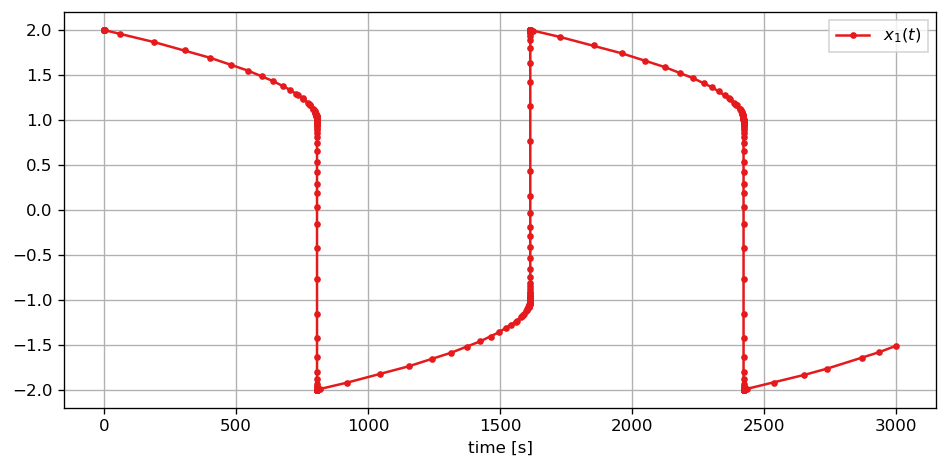
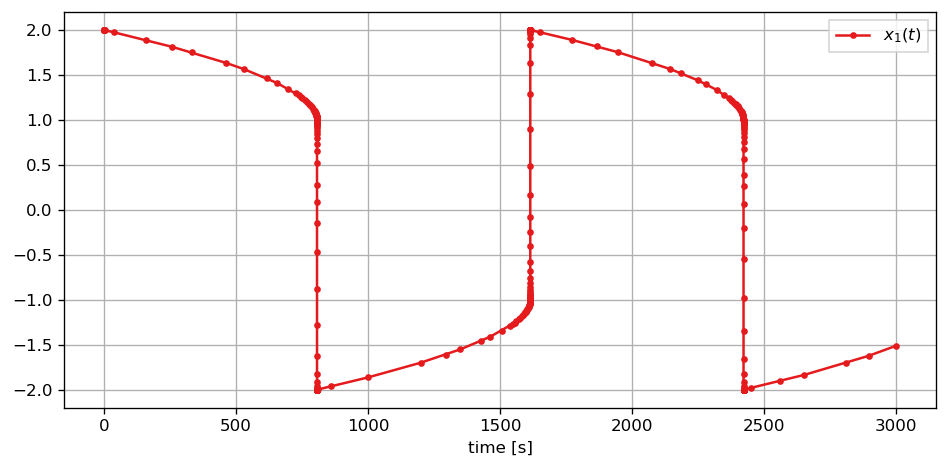
updated readme

diff --git a/README.md b/README.md
@@ -1,23 +1,22 @@
 # PathSim: A Time-Domain System Simulation Framework
 
-
 ## Overview
 
 PathSim is a flexible block-based time-domain system simulation framework in Python with automatic differentiation capabilities and an event handling mechanism. It provides a variety of classes that enable modeling and simulating complex interconnected dynamical systems similar to Matlab Simulink but in Python!
 
 Key features of PathSim include:
 
-- Natural handling of algebraic loops
 - Hot-swappable blocks and solvers during simulation
+- Natural handling of algebraic loops
 - Blocks are inherently MIMO (Multiple Input, Multiple Output) capable
-- Blocks are "physicalized" and manage their own state, i.e. reading from the scope is just scope.read()
-- Scales linearly with the number of blocks and connections
-- Wide range of numerical solvers, including implicit and explicit very high order Runge-Kutta and multistep methods
+- Blocks are decentralized and manage their own state, i.e. reading from the scope is just `scope.read()`
+- Linear scaling with the number of blocks and connections
+- Wide range of numerical integrators (implicit, explicit, high order, adaptive)
 - Modular and hierarchical modeling with (nested) subsystems
-- Event handling system that can detect and resolve discrete events (zero-crossing detection)
-- Automatic differentiation for fully differentiable system simulations (even through events and for stiff systems) for sensitivity analysis and optimization
-- Library of pre-defined blocks, including mathematical operations, integrators, delays, transfer functions, etc.
-- Easy extensibility, subclassing the base `Block` class with just a handful of methods
+- Event handling system to detect and resolve discrete events (zero-crossing detection)
+- Automatic differentiation for fully differentiable system simulations (sensitivity analysis and optimization)
+- Library of pre-defined blocks (`Integrator`, `Adder`, `TransferFunction`, `Scope`, etc.)
+- Extensibility by subclassing the base `Block` class and implementing just a handful of methods
 
 All features are demonstrated for benchmark problems in the `example` directory.
 
@@ -97,24 +96,24 @@ Sc.plot()
 time, data = Sc.read();
 ```
 
-    2024-12-09 22:12:59,517 - INFO - LOGGING enabled
-    2024-12-09 22:12:59,518 - INFO - SOLVER -> SSPRK22, adaptive=False, implicit=False
-    2024-12-09 22:12:59,519 - INFO - ALGEBRAIC PATH LENGTH 2
-    2024-12-09 22:12:59,519 - INFO - RESET, time -> 0.0
-    2024-12-09 22:12:59,520 - INFO - TRANSIENT duration=30.0
-    2024-12-09 22:12:59,520 - INFO - STARTING progress tracker
-    2024-12-09 22:12:59,520 - INFO - progress=0%
-    2024-12-09 22:12:59,525 - INFO - progress=10%
-    2024-12-09 22:12:59,529 - INFO - progress=20%
-    2024-12-09 22:12:59,534 - INFO - progress=30%
-    2024-12-09 22:12:59,539 - INFO - progress=40%
-    2024-12-09 22:12:59,544 - INFO - progress=50%
-    2024-12-09 22:12:59,548 - INFO - progress=60%
-    2024-12-09 22:12:59,552 - INFO - progress=70%
-    2024-12-09 22:12:59,557 - INFO - progress=80%
-    2024-12-09 22:12:59,561 - INFO - progress=90%
-    2024-12-09 22:12:59,566 - INFO - progress=100%
-    2024-12-09 22:12:59,566 - INFO - FINISHED steps(total)=600(600) runtime=45.84ms
+    2024-12-12 10:44:36,918 - INFO - LOGGING enabled
+    2024-12-12 10:44:36,918 - INFO - SOLVER -> SSPRK22, adaptive=False, implicit=False
+    2024-12-12 10:44:36,919 - INFO - ALGEBRAIC PATH LENGTH 2
+    2024-12-12 10:44:36,919 - INFO - RESET, time -> 0.0
+    2024-12-12 10:44:36,919 - INFO - TRANSIENT duration=30.0
+    2024-12-12 10:44:36,920 - INFO - STARTING progress tracker
+    2024-12-12 10:44:36,920 - INFO - progress=0%
+    2024-12-12 10:44:36,925 - INFO - progress=10%
+    2024-12-12 10:44:36,930 - INFO - progress=20%
+    2024-12-12 10:44:36,936 - INFO - progress=30%
+    2024-12-12 10:44:36,942 - INFO - progress=40%
+    2024-12-12 10:44:36,947 - INFO - progress=50%
+    2024-12-12 10:44:36,952 - INFO - progress=60%
+    2024-12-12 10:44:36,957 - INFO - progress=70%
+    2024-12-12 10:44:36,962 - INFO - progress=80%
+    2024-12-12 10:44:36,967 - INFO - progress=90%
+    2024-12-12 10:44:36,972 - INFO - progress=100%
+    2024-12-12 10:44:36,972 - INFO - FINISHED steps(total)=600(600) runtime=51.83ms
     
 
 
@@ -141,7 +140,7 @@ from pathsim import Simulation, Connection
 from pathsim.blocks import Integrator, Scope, Function
 
 #implicit adaptive timestep solver 
-from pathsim.solvers import ESDIRK43
+from pathsim.solvers import ESDIRK54
 
 #initial conditions
 x1, x2 = 2, 0
@@ -165,7 +164,15 @@ connections = [
     ]
 
 #initialize simulation with the blocks, connections, timestep and logging enabled
-Sim = Simulation(blocks, connections, dt=0.05, log=True, Solver=ESDIRK43, tolerance_lte_abs=1e-6, tolerance_lte_rel=1e-4)
+Sim = Simulation(
+    blocks, 
+    connections, 
+    dt=0.05, 
+    log=True, 
+    Solver=ESDIRK54, 
+    tolerance_lte_abs=1e-6, 
+    tolerance_lte_rel=1e-4
+    )
 
 #run simulation for some number of seconds
 Sim.run(3*mu)
@@ -174,24 +181,24 @@ Sim.run(3*mu)
 Sc.plot(".-");
 ```
 
-    2024-12-09 22:13:01,459 - INFO - LOGGING enabled
-    2024-12-09 22:13:01,460 - INFO - SOLVER -> ESDIRK43, adaptive=True, implicit=True
-    2024-12-09 22:13:01,460 - INFO - ALGEBRAIC PATH LENGTH 1
-    2024-12-09 22:13:01,460 - INFO - RESET, time -> 0.0
-    2024-12-09 22:13:01,460 - INFO - TRANSIENT duration=3000
-    2024-12-09 22:13:01,460 - INFO - STARTING progress tracker
-    2024-12-09 22:13:01,465 - INFO - progress=0%
-    2024-12-09 22:13:01,603 - INFO - progress=10%
-    2024-12-09 22:13:01,797 - INFO - progress=21%
-    2024-12-09 22:13:02,950 - INFO - progress=30%
-    2024-12-09 22:13:03,057 - INFO - progress=41%
-    2024-12-09 22:13:03,233 - INFO - progress=50%
-    2024-12-09 22:13:04,358 - INFO - progress=61%
-    2024-12-09 22:13:04,467 - INFO - progress=70%
-    2024-12-09 22:13:04,836 - INFO - progress=80%
-    2024-12-09 22:13:05,931 - INFO - progress=91%
-    2024-12-09 22:13:05,980 - INFO - progress=100%
-    2024-12-09 22:13:05,980 - INFO - FINISHED steps(total)=330(671) runtime=4519.09ms
+    2024-12-12 10:48:52,277 - INFO - LOGGING enabled
+    2024-12-12 10:48:52,278 - INFO - SOLVER -> ESDIRK54, adaptive=True, implicit=True
+    2024-12-12 10:48:52,279 - INFO - ALGEBRAIC PATH LENGTH 1
+    2024-12-12 10:48:52,279 - INFO - RESET, time -> 0.0
+    2024-12-12 10:48:52,280 - INFO - TRANSIENT duration=3000
+    2024-12-12 10:48:52,280 - INFO - STARTING progress tracker
+    2024-12-12 10:48:52,286 - INFO - progress=0%
+    2024-12-12 10:48:52,406 - INFO - progress=11%
+    2024-12-12 10:48:52,456 - INFO - progress=20%
+    2024-12-12 10:48:53,461 - INFO - progress=33%
+    2024-12-12 10:48:53,496 - INFO - progress=43%
+    2024-12-12 10:48:53,587 - INFO - progress=50%
+    2024-12-12 10:48:54,687 - INFO - progress=62%
+    2024-12-12 10:48:54,757 - INFO - progress=71%
+    2024-12-12 10:48:55,057 - INFO - progress=80%
+    2024-12-12 10:48:55,941 - INFO - progress=93%
+    2024-12-12 10:48:55,977 - INFO - progress=100%
+    2024-12-12 10:48:55,978 - INFO - FINISHED steps(total)=292(468) runtime=3697.38ms
     
 
 
@@ -202,11 +209,13 @@ Sc.plot(".-");
 
 ## Differentiable Simulation
 
-PathSim also includes a fully fledged automatic differentiation framework based on a dual number system with overloaded operators and numpy ufunc integration. This makes the system simulation fully differentiable end-to-end with respect to a predefined set of parameters. Works with all integrators, adaptive, fixed, implicit, explicit. To demonstrate this lets consider the following linear feedback system.
+PathSim also includes a fully fledged automatic differentiation framework based on a dual number system with overloaded operators and numpy ufunc integration. This makes the system simulation fully differentiable end-to-end with respect to a predefined set of parameters. Works with all integrators, adaptive, fixed, implicit, explicit. 
+
+To demonstrate this lets consider the following linear feedback system and perform a sensitivity analysis on it with respect to some system parameters. 
 
 ![png](README_files/linear_feedback_blockdiagram.png)
 
-The source term is a scaled unit step function (scaled by $b$). The parameters we want to differentiate the time domain response by are the feedback term $a$, the initial condition $x_0$ and the amplitude of the source term $b$.
+The source term is a scaled unit step function (scaled by $b$). In this example, the parameters for the sensitivity analysis are the feedback term $a$, the initial condition $x_0$ and the amplitude of the source term $b$.
 
 
 ```python
@@ -216,7 +225,7 @@ from pathsim.blocks import Source, Integrator, Amplifier, Adder, Scope
 #AD module
 from pathsim.optim import Value, der
 
-#values for derivative propagation
+#values for derivative propagation / parameters for sensitivity analysis
 a  = Value(-1)
 b  = Value(1)
 x0 = Value(2)
@@ -255,24 +264,24 @@ Sim.run(4*tau)
 Sco.plot()
 ```
 
-    2024-12-09 22:13:10,723 - INFO - LOGGING enabled
-    2024-12-09 22:13:10,724 - INFO - SOLVER -> SSPRK22, adaptive=False, implicit=False
-    2024-12-09 22:13:10,724 - INFO - ALGEBRAIC PATH LENGTH 2
-    2024-12-09 22:13:10,724 - INFO - RESET, time -> 0.0
-    2024-12-09 22:13:10,725 - INFO - TRANSIENT duration=12
-    2024-12-09 22:13:10,725 - INFO - STARTING progress tracker
-    2024-12-09 22:13:10,726 - INFO - progress=0%
-    2024-12-09 22:13:10,748 - INFO - progress=10%
-    2024-12-09 22:13:10,768 - INFO - progress=20%
-    2024-12-09 22:13:10,789 - INFO - progress=30%
-    2024-12-09 22:13:10,811 - INFO - progress=40%
-    2024-12-09 22:13:10,831 - INFO - progress=50%
-    2024-12-09 22:13:10,851 - INFO - progress=60%
-    2024-12-09 22:13:10,870 - INFO - progress=70%
-    2024-12-09 22:13:10,891 - INFO - progress=80%
-    2024-12-09 22:13:10,910 - INFO - progress=90%
-    2024-12-09 22:13:10,928 - INFO - progress=100%
-    2024-12-09 22:13:10,928 - INFO - FINISHED steps(total)=1201(1201) runtime=203.21ms
+    2024-12-12 10:43:02,481 - INFO - LOGGING enabled
+    2024-12-12 10:43:02,482 - INFO - SOLVER -> SSPRK22, adaptive=False, implicit=False
+    2024-12-12 10:43:02,482 - INFO - ALGEBRAIC PATH LENGTH 2
+    2024-12-12 10:43:02,483 - INFO - RESET, time -> 0.0
+    2024-12-12 10:43:02,483 - INFO - TRANSIENT duration=12
+    2024-12-12 10:43:02,483 - INFO - STARTING progress tracker
+    2024-12-12 10:43:02,485 - INFO - progress=0%
+    2024-12-12 10:43:02,503 - INFO - progress=10%
+    2024-12-12 10:43:02,521 - INFO - progress=20%
+    2024-12-12 10:43:02,540 - INFO - progress=30%
+    2024-12-12 10:43:02,559 - INFO - progress=40%
+    2024-12-12 10:43:02,577 - INFO - progress=50%
+    2024-12-12 10:43:02,597 - INFO - progress=60%
+    2024-12-12 10:43:02,615 - INFO - progress=70%
+    2024-12-12 10:43:02,633 - INFO - progress=80%
+    2024-12-12 10:43:02,653 - INFO - progress=90%
+    2024-12-12 10:43:02,672 - INFO - progress=100%
+    2024-12-12 10:43:02,672 - INFO - FINISHED steps(total)=1201(1201) runtime=188.22ms
     
 
 
@@ -367,7 +376,15 @@ E1 = ZeroCrossing(
 events = [E1]
 
 #initialize simulation with the blocks, connections, timestep and logging enabled
-Sim = Simulation(blocks, connections, events, dt=0.1, log=True, Solver=RKBS32, dt_max=0.1)
+Sim = Simulation(
+    blocks, 
+    connections, 
+    events, 
+    dt=0.1, 
+    log=True, 
+    Solver=RKBS32, 
+    dt_max=0.1
+    )
 
 #run the simulation
 Sim.run(20)
@@ -376,24 +393,24 @@ Sim.run(20)
 Sc.plot();
 ```
 
-    2024-12-08 12:00:07,005 - INFO - LOGGING enabled
-    2024-12-08 12:00:07,006 - INFO - SOLVER RKBS32 adaptive=True implicit=False
-    2024-12-08 12:00:07,006 - INFO - ALGEBRAIC PATH LENGTH 1
-    2024-12-08 12:00:07,006 - INFO - RESET
-    2024-12-08 12:00:07,007 - INFO - TRANSIENT duration=20
-    2024-12-08 12:00:07,008 - INFO - STARTING progress tracker
-    2024-12-08 12:00:07,008 - INFO - progress=0%
-    2024-12-08 12:00:07,010 - INFO - progress=10%
-    2024-12-08 12:00:07,015 - INFO - progress=20%
-    2024-12-08 12:00:07,021 - INFO - progress=30%
-    2024-12-08 12:00:07,026 - INFO - progress=40%
-    2024-12-08 12:00:07,030 - INFO - progress=50%
-    2024-12-08 12:00:07,036 - INFO - progress=60%
-    2024-12-08 12:00:07,042 - INFO - progress=70%
-    2024-12-08 12:00:07,050 - INFO - progress=80%
-    2024-12-08 12:00:07,058 - INFO - progress=90%
-    2024-12-08 12:00:07,075 - INFO - progress=100%
-    2024-12-08 12:00:07,076 - INFO - FINISHED steps(total)=395(496) runtime=67.94ms
+    2024-12-12 10:43:17,751 - INFO - LOGGING enabled
+    2024-12-12 10:43:17,752 - INFO - SOLVER -> RKBS32, adaptive=True, implicit=False
+    2024-12-12 10:43:17,752 - INFO - ALGEBRAIC PATH LENGTH 1
+    2024-12-12 10:43:17,753 - INFO - RESET, time -> 0.0
+    2024-12-12 10:43:17,753 - INFO - TRANSIENT duration=20
+    2024-12-12 10:43:17,753 - INFO - STARTING progress tracker
+    2024-12-12 10:43:17,753 - INFO - progress=0%
+    2024-12-12 10:43:17,757 - INFO - progress=10%
+    2024-12-12 10:43:17,761 - INFO - progress=20%
+    2024-12-12 10:43:17,767 - INFO - progress=30%
+    2024-12-12 10:43:17,772 - INFO - progress=40%
+    2024-12-12 10:43:17,776 - INFO - progress=50%
+    2024-12-12 10:43:17,782 - INFO - progress=60%
+    2024-12-12 10:43:17,788 - INFO - progress=70%
+    2024-12-12 10:43:17,796 - INFO - progress=80%
+    2024-12-12 10:43:17,803 - INFO - progress=90%
+    2024-12-12 10:43:17,817 - INFO - progress=100%
+    2024-12-12 10:43:17,818 - INFO - FINISHED steps(total)=395(496) runtime=63.99ms
     
 
 
@@ -402,7 +419,7 @@ Sc.plot();
     
 
 
-During the event handling, the simulator approaches the event until the event tolerance is met. You can see this by analyzing the timesteps taken by `RKBS32`.
+During the event handling, the simulator approaches the event until the event tolerance is met. You can see this by analyzing the timesteps taken by the adaptive integrator `RKBS32`.
 
 
 ```python
@@ -439,7 +456,7 @@ Some of the possible directions for future features are:
 - better `__repr__` for the blocks maybe in json format OR just add a `json` method to the blocks and to the connections that builds a netlist representation to save to and load from an interpretable file (compatibility with other system description languages)
 - explore block level parallelization (fork-join) with Python 3.13 free-threading, batching based on execution cost
 - linearization of blocks and subsystems with the AD framework, linear surrogate models, system wide linearization
-- improved / more robust steady state solver and algebraic loop solver
+- more robust steady state solver and algebraic loop solver
 - methods for periodic steady state analysis
 - more extensive testing and validation (as always)
 
